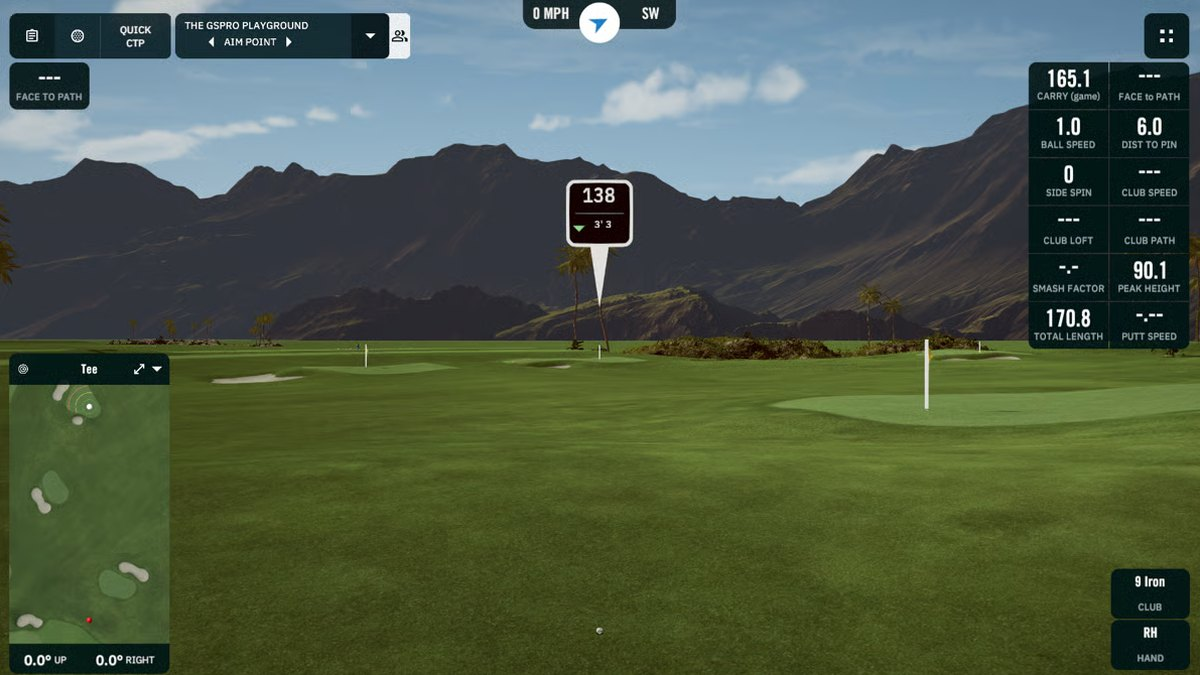
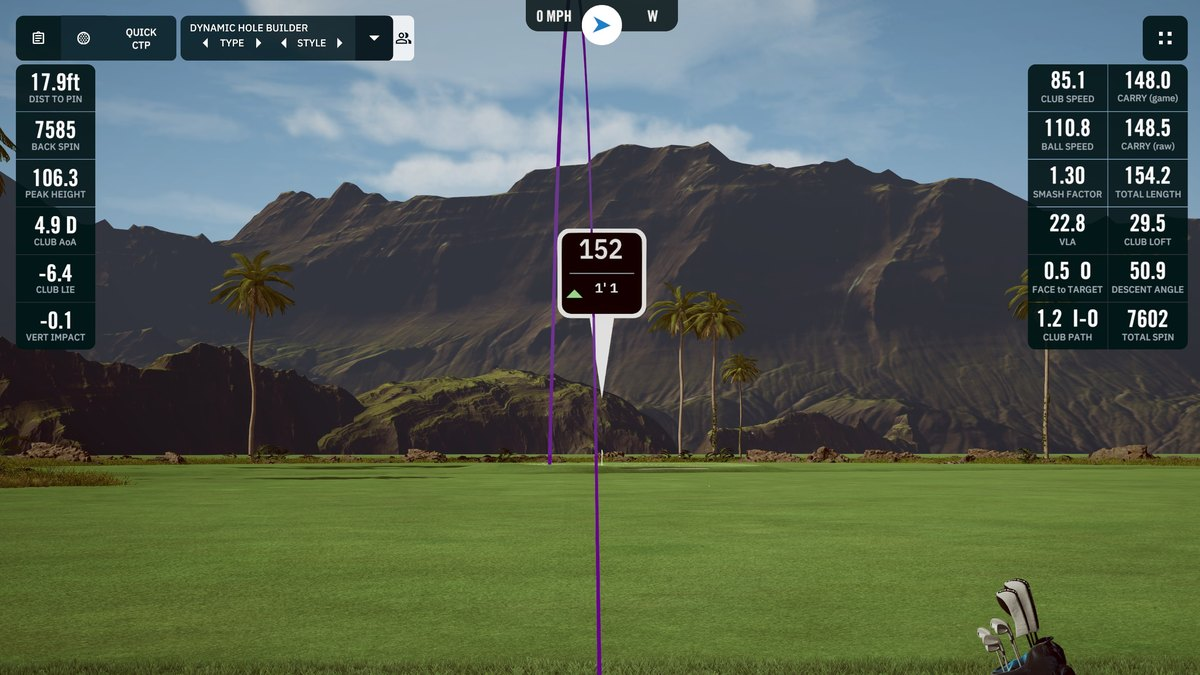
Swap in the owner's GSPro captures across the site
Replaces the stand-in imagery with real captures from the owner's own sessions:
five of the six course thumbnails, the large course shot on the Studio page,
and three of the four rotator screens.

This retires the two photographs of real courses that were standing in. Those
were someone else's pictures sitting above a line saying we are not affiliated
with the clubs. A GSPro capture of the same hole is ours to use and is the
honest answer to what a member will see in the bay.

Regenerated every -800 variant. They had been deleted, and the pages reference
them in srcset, so they would have 404'd on small screens.

Cropped 16:9 anchored to the top rather than centred: these captures carry
their data panels across the top of the frame, and a centred crop sliced them.

Resized from 1-1.5MB each. gspro-courses alone went 1531KB to 186KB, and the
rotator screens are about a tenth of what was uploaded. They display at 538px
at most.

diff --git a/studio.html b/studio.html
@@ -634,7 +634,7 @@
         <img src="images/gspro-courses.jpg"
              srcset="images/gspro-courses-800.jpg 800w, images/gspro-courses.jpg 1400w"
              sizes="(min-width: 1025px) 70vw, 100vw"
-             alt="A GSPro course view of a par 4 tee shot, with the shot data panels shown either side" loading="lazy" width="1400" height="787"/>
+             alt="A GSPro course view of a par 4 tee shot, with the shot data panels shown either side" loading="lazy" width="1400" height="788"/>
       </div>
       <figcaption class="slot-caption">A GSPro course as it appears in the bay. Screen shown from GSPro.</figcaption>
     </figure>
@@ -655,12 +655,17 @@
         
       </article>
       
-      <article class="card card-dark course-card">
+      <article class="card card-dark course-card has-thumb">
         <div class="course-text">
           <span class="course-tag">Bucket list</span>
           <h4>Tobacco Road</h4>
           <p>Cult classic · North Carolina</p>
         </div>
+        
+        <img class="course-thumb" src="images/courses/tobacco-road.jpg"
+             
+             sizes="120px"
+             alt="Tobacco Road, North Carolina" loading="lazy" width="800" height="600"/>
         
       </article>
       

diff --git a/index.html b/index.html
@@ -424,12 +424,17 @@
         
       </article>
       
-      <article class="card card-dark course-card">
+      <article class="card card-dark course-card has-thumb">
         <div class="course-text">
           <span class="course-tag">Bucket list</span>
           <h4>Tobacco Road</h4>
           <p>Cult classic · North Carolina</p>
         </div>
+        
+        <img class="course-thumb" src="images/courses/tobacco-road.jpg"
+             
+             sizes="120px"
+             alt="Tobacco Road, North Carolina" loading="lazy" width="800" height="600"/>
         
       </article>
       
